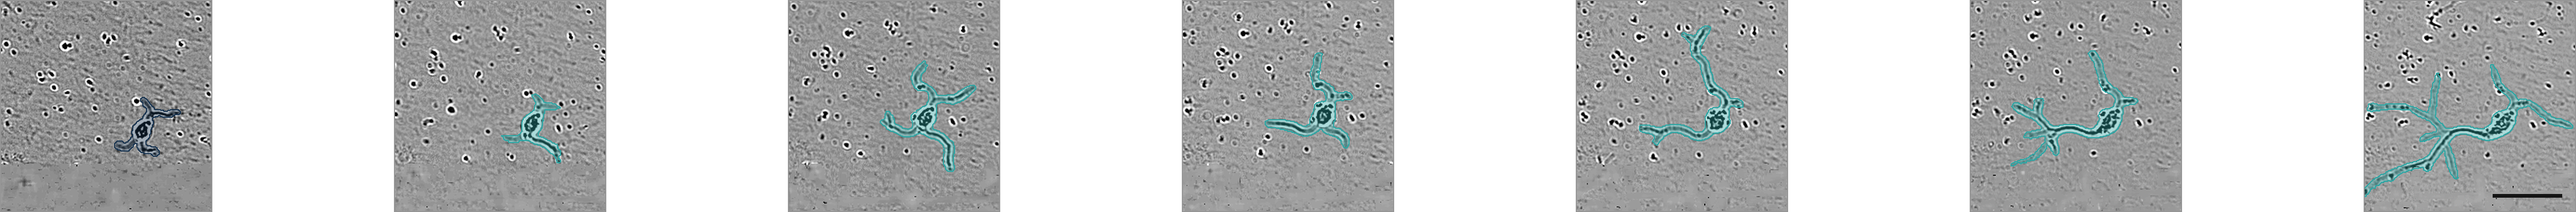
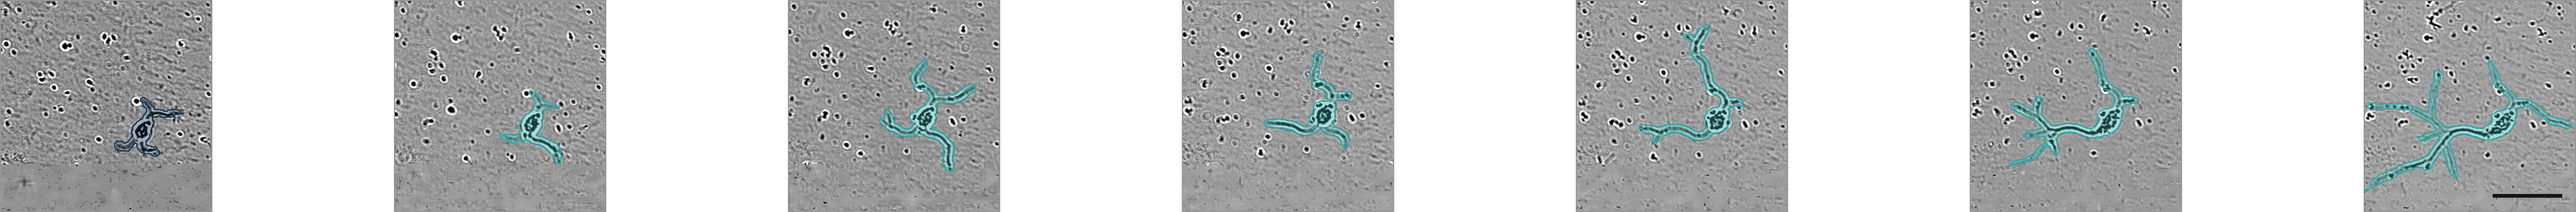
ISBI paper: corrected three-run numbers after the centred resize
Every test number now comes from benchmark/results/folds/ as regenerated
in 70a3472: Table 1 rows for NeuroVestigo, SAM 2, Cellpose-SAM,
NeuroQuantify and Omnipose; the abstract (cbDice 0.893, IoU 0.789, drift
0.080 vs 0.136); gains over SAM 2 (0.160 / 0.145 / 0.130); the lead over
muSAM (0.166 IoU, 0.071 cbDice, 11 of 12 recordings); components per frame
(1.48); Table 2 (with the per-recording median) and the drift ratios. The
conclusion's "less than half the drift" is now 1.7x. The inference sentence
describes the bilinear resize before thresholding.

Fig. 1(a) and Fig. 2 are redrawn from the corrected stacks.
make_filmstrip.py checks A71_C1 against results/folds/per_recording.csv;
make_fig_qual.py draws the paper's A71_C1 figure by default and keeps B12
as a preset.

Changed region(s): [[0.9336, 0.78, 0.9648, 0.81], [0.1867, 0.63, 0.2178, 0.66], [0.1867, 0.51, 0.2178, 0.54]]

diff --git a/paper_assets/isbi2027/main.tex b/paper_assets/isbi2027/main.tex
@@ -6,6 +6,9 @@
 %  Tables 1-2 and the numbers quoted in Sec. 3.1-3.3 and the abstract come from
 %  benchmark/results/folds/ (benchmark/aggregate_folds.py). The ablations
 %  (Sec. 3.4) are first-split results from benchmark/results/test/.
+%  2026-11-02: every test number and Figs. 1-2 refreshed after predictions were
+%  shrunk to native size centred (commit 70a3472). The ablations predate that;
+%  both arms of each comparison share the old shrink.
 %
 %  Layout follows a 2026 ISBI four-pager (Goel et al., TrackletGPT,
 %  arXiv:2601.13935): the data sit inside Methodology, followed by
@@ -88,7 +91,7 @@ neurons in time-lapse microscopy}
 % ---------------------------------------------------------------------
 \begin{abstract}
 Understanding neuronal growth and regeneration requires accurately quantifying neurite length, thickness, and branching in every frame of multi-day, label-free recordings---a task still bottlenecked by labor-intensive manual tracing. Existing automated segmenters reliably resolve the soma but struggle with neurites and fail to preserve longitudinal instance identity. In this work, we present NeuroVestigo, a parameter-efficient adaptation of the promptable video foundation model
-SAM\,2 for time-lapse microscopy. Conditioned on a single annotated mask at frame~0, the model segments entire multi-day sequences. Utilizing dual-rank LoRA+, we train merely $12.9\,\%$ of the weights. The architecture is optimized via a connectivity-preserving objective that penalizes topological fractures. By backpropagating through an undetached temporal memory bank, we minimize longitudinal drift rather than merely measuring it. Evaluated on three held-out test sets, NeuroVestigo achieves state-of-the-art performance (cbDice $0.847 \pm 0.019$, IoU $0.751 \pm 0.024$), outperforming seven baselines across all metrics. Furthermore, it demonstrates substantially better temporal stability, exhibiting a minimal cbDice drift of $0.065$ between the first and final quartiles of the sequence, compared to $0.144$ for the most stable baselines. Code, weights, and a napari plug-in are available at \url{github.com/adioiz/NeuroVestigo} and \url{github.com/adioiz/neurons-labeling}.
+SAM\,2 for time-lapse microscopy. Conditioned on a single annotated mask at frame~0, the model segments entire multi-day sequences. Utilizing dual-rank LoRA+, we train merely $12.9\,\%$ of the weights. The architecture is optimized via a connectivity-preserving objective that penalizes topological fractures. By backpropagating through an undetached temporal memory bank, we minimize longitudinal drift rather than merely measuring it. Evaluated on three held-out test sets, NeuroVestigo achieves state-of-the-art performance (cbDice $0.893 \pm 0.028$, IoU $0.789 \pm 0.028$), outperforming seven baselines across all metrics. Furthermore, it demonstrates substantially better temporal stability, exhibiting a minimal cbDice drift of $0.080$ between the first and final quartiles of the sequence, compared to $0.136$ for the most stable baseline. Code, weights, and a napari plug-in are available at \url{github.com/adioiz/NeuroVestigo} and \url{github.com/adioiz/neurons-labeling}.
 \end{abstract}
 
 \begin{keywords}
@@ -159,11 +162,11 @@ longitudinal mask propagation. We therefore optimize via backpropagation
 through time across 16-frame sequences, with each conditioned purely on its
 initial frame.
 
-Frames are resized to $1024\times1024$ (nearest-neighbor for masks). During
+Frames are resized to $1024\times1024$. During
 inference, the entire sequence is propagated continuously without
 supplementary prompting, manual correction, or re-initialization. Output
-logits are strictly zero-thresholded and rescaled to the native spatial
-resolution.
+logits are bilinearly resampled to the native resolution, then thresholded
+at zero (reversed in the ablations).
 
 \subsection{Parameter-efficient adaptation}
 \label{sec:lora}
@@ -229,7 +232,7 @@ Hyperparameters and backbones were tuned solely on the validation split.
 \subsection{Benchmarking against existing methods}
 \label{sec:res:benchmark}
 
-NeuroVestigo outperforms every baseline across all metrics (Table~\ref{tab:main}) and on IoU in at least 11 of the 12 test recordings. Because zero-shot SAM\,2 shares the same backbone and prompt, the resulting gains ($0.143$ IoU, $0.127$ cbDice) stem from our fine-tuning. On clDice, our independent topological check, the improvement reaches $0.136$. A larger backbone fails to close this gap: identically prompted zero-shot SAM\,3 performs within the noise of zero-shot SAM\,2 ($0.620$ vs.\ $0.609$ IoU).
+NeuroVestigo outperforms every baseline across all metrics (Table~\ref{tab:main}) and on IoU in at least 11 of the 12 test recordings. Because zero-shot SAM\,2 shares the same backbone and prompt, the resulting gains ($0.160$ IoU, $0.145$ cbDice) stem from our fine-tuning. On clDice, our independent topological check, the improvement reaches $0.130$. A larger backbone fails to close this gap: identically prompted zero-shot SAM\,3 performs within the noise of zero-shot SAM\,2 ($0.620$ vs.\ $0.629$ IoU).
 
 % Table 1 -- [!h], between the two paragraphs of Sec. 3.2: printed here, or
 % at the top of the next column if it does not fit there.
@@ -246,29 +249,29 @@ NeuroVestigo outperforms every baseline across all metrics (Table~\ref{tab:main}
 \toprule
 Method & Prompt & IoU & Dice & \textbf{cbDice} & clDice \\
 \midrule
-\textbf{NeuroVestigo}  & mask, $t{=}0$      & \textbf{0.751}$\pm$0.024 & \textbf{0.856}$\pm$0.016 & \textbf{0.847}$\pm$0.019 & \textbf{0.941}$\pm$0.019 \\
-SAM\,2 (zero-shot)     & mask, $t{=}0$      & 0.609$\pm$0.050 & 0.743$\pm$0.046 & 0.720$\pm$0.063 & 0.805$\pm$0.066 \\
+\textbf{NeuroVestigo}  & mask, $t{=}0$      & \textbf{0.789}$\pm$0.028 & \textbf{0.880}$\pm$0.019 & \textbf{0.893}$\pm$0.028 & \textbf{0.940}$\pm$0.024 \\
+SAM\,2 (zero-shot)     & mask, $t{=}0$      & 0.629$\pm$0.043 & 0.758$\pm$0.038 & 0.748$\pm$0.053 & 0.811$\pm$0.061 \\
 SAM\,3 (mask)          & mask, $t{=}0$      & 0.620$\pm$0.010 & 0.745$\pm$0.002 & 0.747$\pm$0.014 & 0.797$\pm$0.013 \\
 $\mu$SAM (box)         & GT box, all $t$    & 0.623$\pm$0.049 & 0.761$\pm$0.039 & 0.822$\pm$0.041 & 0.885$\pm$0.046 \\
-Cellpose-SAM           & none               & 0.519$\pm$0.072 & 0.648$\pm$0.083 & 0.658$\pm$0.088 & 0.715$\pm$0.098 \\
-NeuroQuantify          & none               & 0.358$\pm$0.137 & 0.475$\pm$0.167 & 0.497$\pm$0.174 & 0.547$\pm$0.201 \\
-Omnipose               & none               & 0.289$\pm$0.026 & 0.440$\pm$0.031 & 0.571$\pm$0.035 & 0.648$\pm$0.040 \\
+Cellpose-SAM           & none               & 0.533$\pm$0.075 & 0.660$\pm$0.086 & 0.671$\pm$0.090 & 0.721$\pm$0.099 \\
+NeuroQuantify          & none               & 0.359$\pm$0.137 & 0.475$\pm$0.167 & 0.497$\pm$0.173 & 0.550$\pm$0.200 \\
+Omnipose               & none               & 0.282$\pm$0.024 & 0.432$\pm$0.029 & 0.578$\pm$0.045 & 0.656$\pm$0.044 \\
 SAM\,3.1 (text)        & text   & 0.176$\pm$0.038 & 0.239$\pm$0.058 & 0.246$\pm$0.059 & 0.263$\pm$0.062 \\
 \bottomrule
 \end{tabular}}
 \end{table}
 
-A single frame\nobreakdash-0 mask is more informative than a ground-truth box on every frame: NeuroVestigo leads $\mu$SAM, the strongest baseline on cbDice, by $0.128$ IoU and $0.025$ cbDice, the latter within noise. A bounding box is a weak prompt for a branched cell, which fills only $18\,\%$ of its bounding area on average. Masks stay nearly whole, as the supervoxel term and Betti-0 selection intend: predictions average $1.42$ connected components per frame against $1.04$ in the ground truth. Achieving peak clDice simultaneously confirms this low count does not stem from dropped branches. As the arbor grows (Fig.~\ref{fig:qual}), NeuroVestigo successfully tracks the thin distal branches that baselines partially miss (green).
+A single frame\nobreakdash-0 mask is more informative than a ground-truth box on every frame: NeuroVestigo leads $\mu$SAM, the strongest baseline on cbDice, by $0.166$ IoU and $0.071$ cbDice, the latter in 11 of the 12 recordings. A bounding box is a weak prompt for a branched cell, which fills only $18\,\%$ of its bounding area on average. Masks stay nearly whole, as the supervoxel term and Betti-0 selection intend: predictions average $1.48$ connected components per frame against $1.04$ in the ground truth. Achieving peak clDice simultaneously confirms this low count does not stem from dropped branches. As the arbor grows (Fig.~\ref{fig:qual}), NeuroVestigo successfully tracks the thin distal branches that baselines partially miss (green).
 % Sources (three splits, 12 test recordings, Table 1 protocol): gains, leads
 % and per-recording wins from benchmark/results/folds/{table1,paired}.csv.
 % NeuroVestigo beats SAM 2 on every metric in 12/12 recordings and every
-% baseline on IoU in >= 11/12. SAM 3 vs SAM 2 zero-shot: SAM 3 has the higher
-% IoU in 9/12 recordings but the lower mean clDice -> "within noise". muSAM:
-% cbDice lead 0.025, NeuroVestigo ahead in 9/12 -> "within noise".
+% baseline on every metric in >= 11/12. SAM 3 vs SAM 2 zero-shot: SAM 3 has the
+% higher IoU in 7/12 recordings but the lower mean IoU and clDice -> "within
+% noise". muSAM: cbDice lead 0.071, NeuroVestigo ahead in 11/12.
 % Box fill = GT area / bounding-box area, frames 1+, per-recording mean over
 % the 12 recordings: 18.1% (pooled frames 18.7%; first split alone 21.2%). Components per frame:
-% 8-connected foreground, frames 1+, per-recording mean: ours 1.417 vs GT 1.042
-% (first split alone: 1.36 vs 1.03). Recomputed 2026-10-16 from
+% 8-connected foreground, frames 1+, per-recording mean: ours 1.482 vs GT 1.042
+% (first split alone: 1.37 vs 1.03). Recomputed 2026-11-02 from
 % benchmark/predictions/{ours_23rec_topo,ours_fold2_topo,ours_fold3_topo} and
 % the training_data masks.
 % "Nearly whole ... intend", not "validating": no run without the supervoxel
@@ -277,35 +280,36 @@ A single frame\nobreakdash-0 mask is more informative than a ground-truth box on
 \subsection{Temporal consistency}
 \label{sec:res:temporal}
 
-Growth and retraction are derived from consecutive mask differences; thus, segmentation drift confounds biological measurements. Table~\ref{tab:drift} tracks performance across recording quartiles. While all methods degrade, NeuroVestigo drifts just $0.065$ cbDice from Q1 to Q4---$2.2\times$ less than the most stable baselines. Despite receiving per-frame ground-truth boxes, $\mu$SAM drifts $2.2\times$ more. SAM\,3 starts within $0.001$ cbDice of NeuroVestigo in Q1 but drifts $3.3\times$ more.
+Growth and retraction are derived from consecutive mask differences; thus, segmentation drift confounds biological measurements. Table~\ref{tab:drift} tracks performance across recording quartiles. While all methods degrade, NeuroVestigo drifts just $0.080$ cbDice from Q1 to Q4---$1.7\times$ less than the most stable baseline. Despite receiving per-frame ground-truth boxes, $\mu$SAM drifts $1.8\times$ more; SAM\,3, $2.7\times$. Per recording, it drifts less than each baseline in 10--11 of 12 recordings, except NeuroQuantify (7 of 12), which never finds the neuron in three dense ones, so its score has nowhere to fall.
 
 % Table 2 -- [!h], between the two paragraphs of Sec. 3.3 (see Table 1).
 \begin{table}[!h]
 \centering
-\caption{\textbf{Temporal consistency.} Mean cbDice across recording quartiles; drift denotes $|\mathrm{Q4}-\mathrm{Q1}|$ per recording, averaged (mean\,$\pm$\,SD over three splits).}
+\caption{\textbf{Temporal consistency.} Mean cbDice across recording quartiles; drift denotes $|\mathrm{Q4}-\mathrm{Q1}|$ per recording, averaged (mean\,$\pm$\,SD over three splits), and its median.}
 \label{tab:drift}
 \vspace{2pt}
 \scriptsize
 \setlength{\tabcolsep}{4pt}
-\begin{tabular}{@{}lccccc@{}}
+\begin{tabular}{@{}lcccccc@{}}
 \toprule
-Method & Q1 & Q2 & Q3 & Q4 & Drift \\
+Method & Q1 & Q2 & Q3 & Q4 & Drift & Median \\
 \midrule
-\textbf{NeuroVestigo}  & 0.863 & \textbf{0.875} & \textbf{0.844} & \textbf{0.806} & \textbf{0.065}$\pm$0.005 \\
-Cellpose-SAM           & 0.656 & 0.708 & 0.691 & 0.578 & 0.144$\pm$0.018 \\
-$\mu$SAM (box)         & \textbf{0.871} & 0.868 & 0.821 & 0.727 & 0.144$\pm$0.040 \\
-NeuroQuantify          & 0.551 & 0.537 & 0.489 & 0.409 & 0.160$\pm$0.086 \\
-Omnipose               & 0.624 & 0.621 & 0.556 & 0.482 & 0.170$\pm$0.045 \\
-SAM\,2 (zero-shot)     & 0.810 & 0.764 & 0.693 & 0.613 & 0.197$\pm$0.081 \\
-SAM\,3 (mask)          & 0.864 & 0.775 & 0.702 & 0.648 & 0.215$\pm$0.092 \\
+\textbf{NeuroVestigo}  & \textbf{0.912} & \textbf{0.918} & \textbf{0.893} & \textbf{0.847} & \textbf{0.080}$\pm$0.040 & \textbf{0.059} \\
+Cellpose-SAM           & 0.666 & 0.718 & 0.704 & 0.596 & 0.136$\pm$0.028 & 0.144 \\
+$\mu$SAM (box)         & 0.871 & 0.868 & 0.821 & 0.727 & 0.144$\pm$0.040 & 0.158 \\
+NeuroQuantify          & 0.551 & 0.538 & 0.489 & 0.410 & 0.159$\pm$0.082 & 0.097 \\
+Omnipose               & 0.636 & 0.627 & 0.563 & 0.485 & 0.174$\pm$0.040 & 0.096 \\
+SAM\,3 (mask)          & 0.864 & 0.775 & 0.702 & 0.648 & 0.215$\pm$0.092 & 0.168 \\
+SAM\,2 (zero-shot)     & 0.844 & 0.807 & 0.717 & 0.623 & 0.221$\pm$0.085 & 0.130 \\
 \bottomrule
 \end{tabular}
 \end{table}
 
-This drift partially stems from the evolving target: from Q1 to Q4, its centerline lengthens $3.0$-fold while mean thickness drops from $8.3$ to $6.6$\,px. Indeed, stateless automatic methods---which accumulate no temporal drift---still move by at least $0.144$. Q2 often exceeds Q1 because early neurites are short, so each error weighs more.
-% Q2 > Q1 on the three-split means for NeuroVestigo and Cellpose-SAM, and for
-% NeuroVestigo in 9 of 12 recordings, hence "often": cbDice is a ratio over
-% centerline length, shortest in Q1, so a fixed error weighs most there.
+This drift partially stems from the evolving target: from Q1 to Q4, its centerline lengthens $3.0$-fold while mean thickness drops from $8.3$ to $6.6$\,px. Indeed, stateless automatic methods---which accumulate no temporal drift---still move by at least $0.136$. Q2 often exceeds Q1 because early neurites are short, so each error weighs more.
+% Q2 > Q1 in 34 of the 84 method-recordings of Table 2 (NeuroVestigo and
+% Cellpose-SAM 6/12 each, and on their three-split means), hence "often":
+% cbDice is a ratio over centerline length, shortest in Q1, so a fixed error
+% weighs most there.
 % Drift and the target-growth figures (3.0-fold, 8.3 -> 6.6 px) are over the
 % 12 test recordings; target_growth.py reproduces 3.3-fold, 8.7 -> 7.2 px on
 % the first split alone.
@@ -330,7 +334,7 @@ $512\times512$ skeletons. However, removing cbDice entirely exacerbates the sign
 \section{Conclusion}
 \label{sec:conclusion}
 
-Initialized from a single frame~0 mask, NeuroVestigo tracks neurons across multi-day recordings, achieving state-of-the-art accuracy with less than half the temporal drift of the most stable baselines. These gains stem from adaptation rather than model capacity: the same recipe applied to a $20\times$ larger encoder yields no measurable benefit. Two limitations remain. First, our modest 32-recording dataset means minor metric differences fall within noise; further improvements will require larger, more diverse cohorts. Second, dense multi-neuron fields with intersecting processes remain untested. Text prompts, as in SAM\,3.1, could remove the frame-0 annotation in future work, but currently reach only $0.176$ IoU. Beyond segmentation and tracking, our framework could enable direct measurement of neurite growth, branching, and retraction rates from its masks, allowing growth phases and substrate responses to be compared across large neuronal populations. By replacing frame-by-frame tracing with a single annotation---and providing a plug-in for laboratories to curate data for bespoke culture systems, magnifications, or cell types---NeuroVestigo scales single-neuron analysis to meet the statistical demands of cell-to-cell variability.
+Initialized from a single frame~0 mask, NeuroVestigo tracks neurons across multi-day recordings, achieving state-of-the-art accuracy with $1.7\times$ less temporal drift than the most stable baseline. These gains stem from adaptation rather than model capacity: the same recipe applied to a $20\times$ larger encoder yields no measurable benefit. Two limitations remain. First, our modest 32-recording dataset means minor metric differences fall within noise; further improvements will require larger, more diverse cohorts. Second, dense multi-neuron fields with intersecting processes remain untested. Text prompts, as in SAM\,3.1, could remove the frame-0 annotation in future work, but currently reach only $0.176$ IoU. Beyond segmentation and tracking, our framework could enable direct measurement of neurite growth, branching, and retraction rates from its masks, allowing growth phases and substrate responses to be compared across large neuronal populations. By replacing frame-by-frame tracing with a single annotation---and providing a plug-in for laboratories to curate data for bespoke culture systems, magnifications, or cell types---NeuroVestigo scales single-neuron analysis to meet the statistical demands of cell-to-cell variability.
 % "Further gains will likely need a larger, more varied dataset": on the first
 % split, growing training from 20 to 23 recordings of the same kind moved test IoU by
 % 0.006 (0.7593 -> 0.7655), within noise (long paper, Training-set size).

diff --git a/paper_assets/isbi2027/make_fig_qual.py b/paper_assets/isbi2027/make_fig_qual.py
@@ -13,7 +13,8 @@ changes for a 7-inch-wide, two-column page:
   * output goes to paper_assets/isbi2027/figures/, never over the long
     paper's proof_<video>.png.
 
-    venv/bin/python paper_assets/isbi2027/make_fig_qual.py
+    venv/bin/python paper_assets/isbi2027/make_fig_qual.py            # A71_C1, the paper's Fig. 2
+    venv/bin/python paper_assets/isbi2027/make_fig_qual.py B12_C1_100k
 """
 import os
 import sys
@@ -26,21 +27,30 @@ REPO = os.path.dirname(os.path.dirname(HERE))
 sys.path.insert(0, os.path.join(REPO, "benchmark"))
 import make_proof_panel as mpp  # noqa: E402
 
-SCALE = 0.64
-# B12's neuron grows down the frame, so the tight crop is portrait; widening it
-# with background keeps nine columns to a figure height the page can hold.
-MIN_ASPECT = 0.75
-# Run 2's test recording whose NeuroVestigo IoU is closest to that fold's mean
-# (0.711 against 0.724), so the figure shows typical rather than best-case
-# performance; A61_C1, the fold's best at 0.800, would be cherry-picking.
-# Frames keep the draft's relative positions, 8/72 and 62/72 of the sequence.
-VIDEO, FRAMES = "B12_C1_100k", ["10", "79"]
+PRESETS = {
+    # The paper's Fig. 2: run 1's test recording, drawn with run 1's model (the
+    # released one), at the draft's frames 8 and 62.
+    "A71_C1": dict(frames=["8", "62"], ours="ours_23rec_topo", scale=0.55,
+                   min_aspect=0.0, sam2="SAM 2 (zero-shot)"),
+    # Run 2's test recording whose NeuroVestigo IoU is closest to that fold's
+    # mean (0.711 against 0.724), so the figure shows typical rather than
+    # best-case performance; A61_C1, the fold's best at 0.800, would be
+    # cherry-picking. Frames keep the draft's relative positions, 8/72 and 62/72
+    # of the sequence. B12's neuron grows down the frame, so the tight crop is
+    # portrait; widening it with background keeps nine columns to a figure
+    # height the page can hold.
+    "B12_C1_100k": dict(frames=["10", "79"], ours="ours_fold2_topo", scale=0.64,
+                        min_aspect=0.75, sam2="SAM 2"),
+}
+VIDEO = sys.argv[1] if len(sys.argv) > 1 else "A71_C1"
+P = PRESETS[VIDEO]
+SCALE, MIN_ASPECT, FRAMES = P["scale"], P["min_aspect"], P["frames"]
 
 mpp.FIGDIR = os.path.join(HERE, "figures")
 mpp.PRETTY.update({"usam": "µSAM (box)", "sam3_maskfirst": "SAM 3 (mask)",
-                   "sam2_zeroshot": "SAM 2"})
+                   "sam2_zeroshot": P["sam2"]})
 # make_proof_panel refuses to draw a recording this model trained on.
-mpp.PRED_DIR["ours"] = "ours_fold2_topo"
+mpp.PRED_DIR["ours"] = P["ours"]
 
 _subplots = plt.subplots
 def _scaled_subplots(*a, figsize=None, **kw):

diff --git a/paper_assets/isbi2027/fig_method.tex b/paper_assets/isbi2027/fig_method.tex
@@ -64,7 +64,7 @@
 % own propagated masks (teal).  Seven 1.24 cm cells on a 2.30 cm pitch, 50 um
 % scale bar burnt into the last cell.  Built by make_filmstrip.py, which
 % refuses to draw a recording the model trained on, and refuses to draw at all
-% unless the stack re-scores to the IoU in results/test/ours_23rec_topo.csv.
+% unless the stack re-scores to the IoU in results/folds/per_recording.csv.
 \node[anchor=south west, inner sep=0] at (0.53,5.80)
      {\includegraphics[width=15.04cm]{fig2_filmstrip}};
 

diff --git a/paper_assets/paper/make_filmstrip.py b/paper_assets/paper/make_filmstrip.py
@@ -58,7 +58,7 @@ RECORDINGS = {
         erase_band=(200, 270, 0, None),
         shared_levels=False,                  # crop holds no padding: stretch per frame
         pred_dir="ours_23rec_topo",
-        scores=os.path.join(RESULTS, "test", "ours_23rec_topo.csv"),
+        scores=os.path.join(RESULTS, "folds", "per_recording.csv"),
         out=os.path.join(HERE, "fig2_filmstrip.png"),
     ),
     # Fold 2's test recording closest to that fold's mean IoU. The neuron grows
